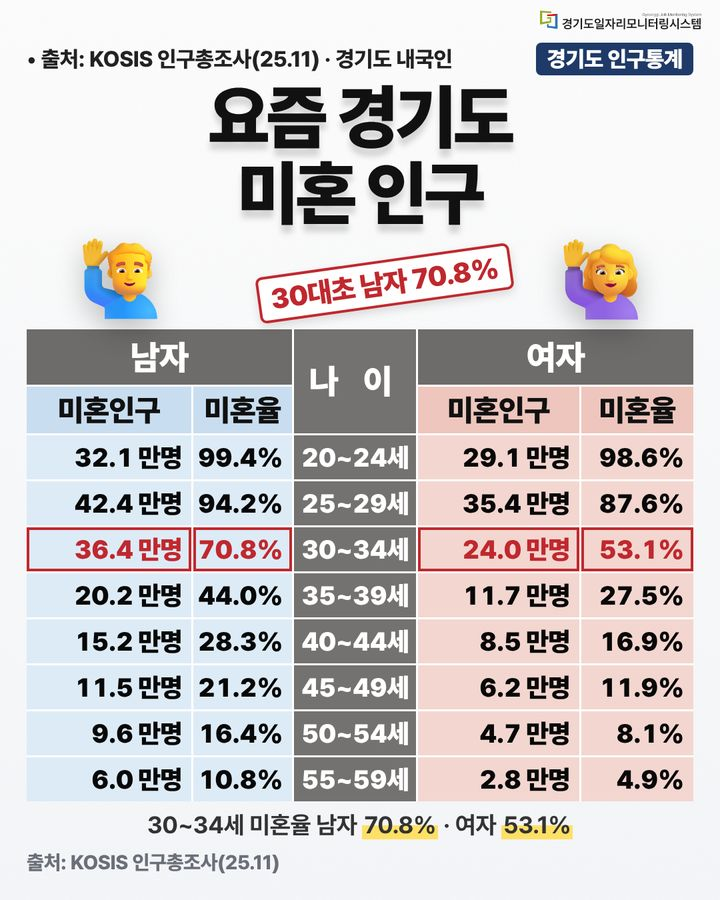
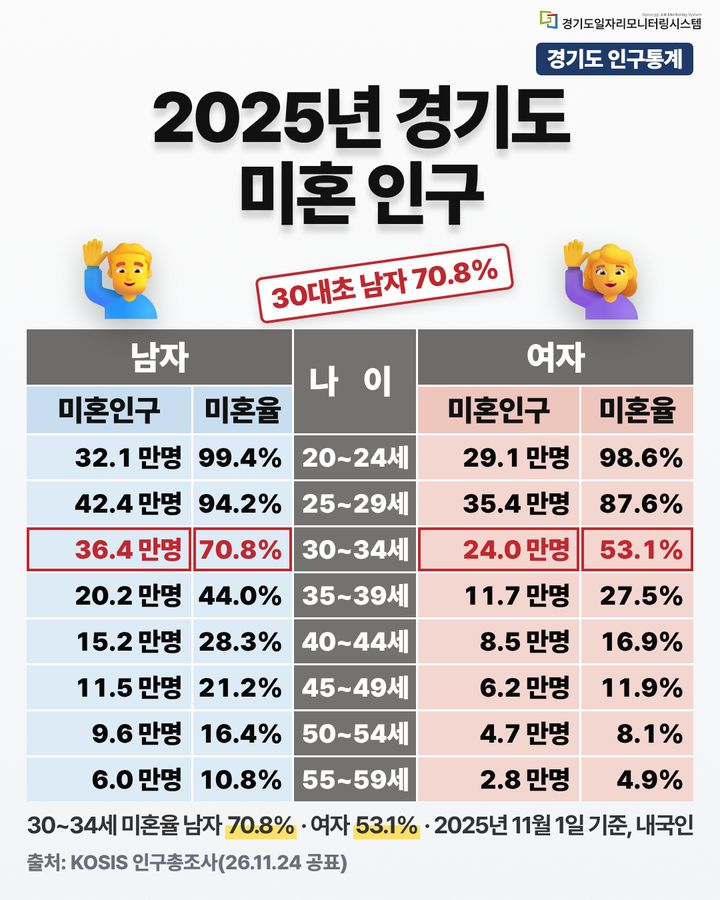
261127 웹페이지 최종본
Claude-Session: https://claude.ai/code/session_015uJhCRwAjtMNyYQ2T3EHaf

Changed region(s): [[0.0611, 0.0311, 0.7944, 0.1867], [0.0306, 0.9022, 0.9778, 0.9644]]

diff --git a/daily/2026-11-27/index.html b/daily/2026-11-27/index.html
@@ -1,15 +1,15 @@
 <!doctype html><html lang="ko"><head><meta charset="utf-8"><meta name="viewport" content="width=device-width,initial-scale=1"><title>11.27.(금) 데일리 그래픽뉴스 | 경기도일자리모니터링시스템</title>
 <meta property="og:title" content="11.27.(금) 데일리 그래픽뉴스 | 경기도일자리모니터링시스템"><meta property="og:description" content="오늘의 일자리·경제 뉴스·통계 15건, 제목과 출처를 확인하세요"><meta property="og:image" content="https://gjfdata.github.io/daily/2026-11-27/preview.jpg"><meta property="og:url" content="https://gjfdata.github.io/daily/2026-11-27/"><meta property="og:type" content="website"><meta name="description" content="오늘의 일자리·경제 뉴스·통계 15건, 제목과 출처를 확인하세요">
 <link rel="stylesheet" href="https://cdn.jsdelivr.net/gh/orioncactus/pretendard@v1.3.9/dist/web/static/pretendard.css"><link rel="stylesheet" href="../../assets/style.css"></head><body><div class="w"><img class="ci" src="../../assets/ci.png" alt="경기도일자리모니터링시스템"><h1>11.27.(금) 데일리 그래픽뉴스</h1><p class="sub">오늘의 일자리·경제 뉴스·통계 15건</p><p class="views" data-views="TOTAL" hidden><span data-range="day" data-label="일간 조회수"></span> · <span data-range="month" data-label="월간 조회수"></span> <span class="vnote">(*최대 4시간 전 기준)</span></p>
-<div class="grid"><button data-card="cards/01.jpg" aria-label="01번 카드 크게 보기"><img src="cards/01.jpg" alt="01번 카드: 2027년 달라지는 제도: 확정 4건·정부안 3건" loading="lazy"><span>01</span></button><button data-card="cards/02.jpg" aria-label="02번 카드 크게 보기"><img src="cards/02.jpg" alt="02번 카드: 경기도 미혼 인구, 30~34세 남자 70.8%" loading="lazy"><span>02</span></button><button data-card="cards/03.jpg" aria-label="03번 카드 크게 보기"><img src="cards/03.jpg" alt="03번 카드: 국가자격시험 앞치마 착용·휴대전화 수거" loading="lazy"><span>03</span></button><button data-card="cards/04.jpg" aria-label="04번 카드 크게 보기"><img src="cards/04.jpg" alt="04번 카드: 3분기 실질소득 2.1% 감소, 10분기 만에" loading="lazy"><span>04</span></button><button data-card="cards/05.jpg" aria-label="05번 카드 크게 보기"><img src="cards/05.jpg" alt="05번 카드: 경기 3분기 합계출산율 0.95명" loading="lazy"><span>05</span></button><button data-card="cards/06.jpg" aria-label="06번 카드 크게 보기"><img src="cards/06.jpg" alt="06번 카드: 한국 기준금리 3.25%로 인상, 미국과 0.75%p 차" loading="lazy"><span>06</span></button><button data-card="cards/07.jpg" aria-label="07번 카드 크게 보기"><img src="cards/07.jpg" alt="07번 카드: 한은, 내년 성장률 4.1%로 상향" loading="lazy"><span>07</span></button><button data-card="cards/08.jpg" aria-label="08번 카드 크게 보기"><img src="cards/08.jpg" alt="08번 카드: 코스피 0.29% 상승 마감, 4,711.21" loading="lazy"><span>08</span></button><button data-card="cards/09.jpg" aria-label="09번 카드 크게 보기"><img src="cards/09.jpg" alt="09번 카드: 주택 종부세 72.6만명, 서울이 63.2%" loading="lazy"><span>09</span></button><button data-card="cards/10.jpg" aria-label="10번 카드 크게 보기"><img src="cards/10.jpg" alt="10번 카드: 경기 재초환 부담금 15곳 8,965억원" loading="lazy"><span>10</span></button><button data-card="cards/11.jpg" aria-label="11번 카드 크게 보기"><img src="cards/11.jpg" alt="11번 카드: 신현송 “반도체 영업익 700조원 육박”" loading="lazy"><span>11</span></button><button data-card="cards/12.jpg" aria-label="12번 카드 크게 보기"><img src="cards/12.jpg" alt="12번 카드: 이재용, 머스크 장기계약 제안에 “뭘 더 해줄 수 있나”" loading="lazy"><span>12</span></button><button data-card="cards/13.jpg" aria-label="13번 카드 크게 보기"><img src="cards/13.jpg" alt="13번 카드: 美 아동 7,200만명에 스페이스X 주식 2주씩" loading="lazy"><span>13</span></button><button data-card="cards/14.jpg" aria-label="14번 카드 크게 보기"><img src="cards/14.jpg" alt="14번 카드: 철도노조 안전운행 투쟁 첫날, 광역전철 235대 지연" loading="lazy"><span>14</span></button><button data-card="cards/15.jpg" aria-label="15번 카드 크게 보기"><img src="cards/15.jpg" alt="15번 카드: 최태원, 재산분할금 9,440억 “7일 내 지급” 제안" loading="lazy"><span>15</span></button></div><p class="hint">카드를 누르면 한 장씩 크게 볼 수 있습니다.</p><ol>
-<li><span class="n"><button data-card="cards/01.jpg" aria-label="01번 카드 크게 보기">01</button></span><div><b>2027년 달라지는 제도: 확정 4건·정부안 3건</b><span class="s">고용노동부 2027년 최저임금 고시(26.8.5)<br>· <a href="https://www.moel.go.kr/news/enews/report/enewsView.do?news_seq=19744" target="_blank" rel="noopener">최저임금(고용노동부)</a><br>· <a href="https://www.korea.kr/multi/visualNewsView.do?newsId=148969661" target="_blank" rel="noopener">근로장려금(국세청·정책브리핑)</a><br>· <a href="https://www.korea.kr/news/policyNewsView.do?newsId=148969870" target="_blank" rel="noopener">세제개편안(혼인·월세, 정책브리핑)</a><br>· <a href="https://www.mafra.go.kr/bbs/home/792/579420/artclView.do" target="_blank" rel="noopener">개식용종식(농림축산식품부)</a></span></div></li>
-<li><span class="n"><button data-card="cards/02.jpg" aria-label="02번 카드 크게 보기">02</button></span><div><b>경기도 미혼 인구, 30~34세 남자 70.8%</b><span class="s">KOSIS 인구총조사(25.11)<br>· <a href="https://kosis.kr/statHtml/statHtml.do?orgId=101&amp;tblId=DT_1PM2503" target="_blank" rel="noopener">KOSIS 성별·연령별·혼인상태별 인구(시군구)</a></span></div></li>
+<div class="grid"><button data-card="cards/01.jpg" aria-label="01번 카드 크게 보기"><img src="cards/01.jpg" alt="01번 카드: 2027년 달라지는 제도: 확정 4건·정부안 3건" loading="lazy"><span>01</span></button><button data-card="cards/02.jpg" aria-label="02번 카드 크게 보기"><img src="cards/02.jpg" alt="02번 카드: 2025년 경기도 미혼 인구, 30~34세 남자 70.8%" loading="lazy"><span>02</span></button><button data-card="cards/03.jpg" aria-label="03번 카드 크게 보기"><img src="cards/03.jpg" alt="03번 카드: 국가자격시험 앞치마 착용·휴대전화 수거" loading="lazy"><span>03</span></button><button data-card="cards/04.jpg" aria-label="04번 카드 크게 보기"><img src="cards/04.jpg" alt="04번 카드: 3분기 실질소득 2.1% 감소, 10분기 만에" loading="lazy"><span>04</span></button><button data-card="cards/05.jpg" aria-label="05번 카드 크게 보기"><img src="cards/05.jpg" alt="05번 카드: 경기 3분기 합계출산율 0.95명" loading="lazy"><span>05</span></button><button data-card="cards/06.jpg" aria-label="06번 카드 크게 보기"><img src="cards/06.jpg" alt="06번 카드: 한국 기준금리 3.25%로 인상, 미국과 0.75%p 차" loading="lazy"><span>06</span></button><button data-card="cards/07.jpg" aria-label="07번 카드 크게 보기"><img src="cards/07.jpg" alt="07번 카드: 한은, 내년 성장률 4.1%로 상향" loading="lazy"><span>07</span></button><button data-card="cards/08.jpg" aria-label="08번 카드 크게 보기"><img src="cards/08.jpg" alt="08번 카드: 국제유가·금 동반 상승, 금 1.17%↑" loading="lazy"><span>08</span></button><button data-card="cards/09.jpg" aria-label="09번 카드 크게 보기"><img src="cards/09.jpg" alt="09번 카드: 주택 종부세 72.6만명, 서울이 63.2%" loading="lazy"><span>09</span></button><button data-card="cards/10.jpg" aria-label="10번 카드 크게 보기"><img src="cards/10.jpg" alt="10번 카드: 경기 재초환 부담금 15곳 8,965억원" loading="lazy"><span>10</span></button><button data-card="cards/11.jpg" aria-label="11번 카드 크게 보기"><img src="cards/11.jpg" alt="11번 카드: 신현송 “반도체 영업익 700조원 육박”" loading="lazy"><span>11</span></button><button data-card="cards/12.jpg" aria-label="12번 카드 크게 보기"><img src="cards/12.jpg" alt="12번 카드: 이재용, 머스크 장기계약 제안에 “뭘 더 해줄 수 있나”" loading="lazy"><span>12</span></button><button data-card="cards/13.jpg" aria-label="13번 카드 크게 보기"><img src="cards/13.jpg" alt="13번 카드: 美 아동 7,200만명에 스페이스X 주식 2주씩" loading="lazy"><span>13</span></button><button data-card="cards/14.jpg" aria-label="14번 카드 크게 보기"><img src="cards/14.jpg" alt="14번 카드: 철도노조 안전운행 투쟁 첫날, 광역전철 235대 지연" loading="lazy"><span>14</span></button><button data-card="cards/15.jpg" aria-label="15번 카드 크게 보기"><img src="cards/15.jpg" alt="15번 카드: 최태원, 재산분할금 9,440억 “7일 내 지급” 제안" loading="lazy"><span>15</span></button></div><p class="hint">카드를 누르면 한 장씩 크게 볼 수 있습니다.</p><ol>
+<li><span class="n"><button data-card="cards/01.jpg" aria-label="01번 카드 크게 보기">01</button></span><div><b>2027년 달라지는 제도: 확정 4건·정부안 3건</b><span class="s">고용노동부 2027년 최저임금 고시(26.8.5) 외 5건<br>· <a href="https://www.moel.go.kr/news/enews/report/enewsView.do?news_seq=19744" target="_blank" rel="noopener">최저임금(고용노동부)</a><br>· <a href="https://www.mohw.go.kr/board.es?mid=a10503000000&amp;bid=0027&amp;list_no=1485039&amp;act=view" target="_blank" rel="noopener">국민연금 보험료율(보건복지부)</a><br>· <a href="https://www.mt.co.kr/economy/2026/05/07/2026050719231093630" target="_blank" rel="noopener">연차 시간 단위 사용(머니투데이)</a><br>· <a href="https://www.korea.kr/multi/visualNewsView.do?newsId=148969661" target="_blank" rel="noopener">근로장려금(국세청·정책브리핑)</a><br>· <a href="https://www.korea.kr/news/policyNewsView.do?newsId=148969870" target="_blank" rel="noopener">세제개편안(혼인·월세, 정책브리핑)</a><br>· <a href="https://www.mafra.go.kr/bbs/home/792/579420/artclView.do" target="_blank" rel="noopener">개식용종식(농림축산식품부)</a></span></div></li>
+<li><span class="n"><button data-card="cards/02.jpg" aria-label="02번 카드 크게 보기">02</button></span><div><b>2025년 경기도 미혼 인구, 30~34세 남자 70.8%</b><span class="s">KOSIS 인구총조사(26.11.24 공표)<br>· <a href="https://kosis.kr/statHtml/statHtml.do?orgId=101&amp;tblId=DT_1PM2503" target="_blank" rel="noopener">KOSIS 성별·연령별·혼인상태별 인구(시군구)</a></span></div></li>
 <li><span class="n"><button data-card="cards/03.jpg" aria-label="03번 카드 크게 보기">03</button></span><div><b>국가자격시험 앞치마 착용·휴대전화 수거</b><span class="s"><a href="https://www.chosun.com/national/labor/2026/11/23/IDR34I6THREKVMUKTSMJR2HLOQ/" target="_blank" rel="noopener">조선일보 「앞치마로 AI 막는 국가시험」(26.11.23)</a></span></div></li>
 <li><span class="n"><button data-card="cards/04.jpg" aria-label="04번 카드 크게 보기">04</button></span><div><b>3분기 실질소득 2.1% 감소, 10분기 만에</b><span class="s"><a href="https://www.yna.co.kr/view/AKR20261126073500002" target="_blank" rel="noopener">연합뉴스 「실질소득 10분기만에 감소 전환」(26.11.26)</a></span></div></li>
 <li><span class="n"><button data-card="cards/05.jpg" aria-label="05번 카드 크게 보기">05</button></span><div><b>경기 3분기 합계출산율 0.95명</b><span class="s">KOSIS 인구동향조사(26.09)<br>· <a href="https://kosis.kr/statHtml/statHtml.do?orgId=101&amp;tblId=DT_1B8000G" target="_blank" rel="noopener">KOSIS 월·분기·연간 인구동향</a></span></div></li>
 <li><span class="n"><button data-card="cards/06.jpg" aria-label="06번 카드 크게 보기">06</button></span><div><b>한국 기준금리 3.25%로 인상, 미국과 0.75%p 차</b><span class="s">한국은행 기준금리(26.11.26)<br>· <a href="https://ecos.bok.or.kr/" target="_blank" rel="noopener">한국은행 ECOS 기준금리</a><br>· <a href="https://www.federalreserve.gov/newsevents/pressreleases/monetary20261028a.htm" target="_blank" rel="noopener">미 연준 FOMC 성명(26.10.28)</a><br>· <a href="https://www.federalreserve.gov/monetarypolicy/openmarket.htm" target="_blank" rel="noopener">미 연준 정책금리 변경 이력</a></span></div></li>
 <li><span class="n"><button data-card="cards/07.jpg" aria-label="07번 카드 크게 보기">07</button></span><div><b>한은, 내년 성장률 4.1%로 상향</b><span class="s"><a href="https://www.yna.co.kr/view/AKR20261126059053002" target="_blank" rel="noopener">연합뉴스 「내년 성장률 4.1%로 대폭 상향」(26.11.26)</a></span></div></li>
-<li><span class="n"><button data-card="cards/08.jpg" aria-label="08번 카드 크게 보기">08</button></span><div><b>코스피 0.29% 상승 마감, 4,711.21</b><span class="s"><a href="https://www.ebn.co.kr/news/articleView.html?idxno=1733145" target="_blank" rel="noopener">이비엔 「코스피 4711 마감」(26.11.26)</a></span></div></li>
+<li><span class="n"><button data-card="cards/08.jpg" aria-label="08번 카드 크게 보기">08</button></span><div><b>국제유가·금 동반 상승, 금 1.17%↑</b><span class="s"><a href="https://www.ebn.co.kr/news/articleView.html?idxno=1733145" target="_blank" rel="noopener">이비엔 「코스피 4711 마감」(26.11.26)</a></span></div></li>
 <li><span class="n"><button data-card="cards/09.jpg" aria-label="09번 카드 크게 보기">09</button></span><div><b>주택 종부세 72.6만명, 서울이 63.2%</b><span class="s"><a href="https://www.yna.co.kr/view/AKR20261126145800002" target="_blank" rel="noopener">연합뉴스 「주택 종부세 73만명에 고지」(26.11.26)</a></span></div></li>
 <li><span class="n"><button data-card="cards/10.jpg" aria-label="10번 카드 크게 보기">10</button></span><div><b>경기 재초환 부담금 15곳 8,965억원</b><span class="s"><a href="https://www.mk.co.kr/news/realestate/12218401" target="_blank" rel="noopener">매일경제 「경기 15곳 9천억 부담금 예정」(26.11.25)</a></span></div></li>
 <li><span class="n"><button data-card="cards/11.jpg" aria-label="11번 카드 크게 보기">11</button></span><div><b>신현송 “반도체 영업익 700조원 육박”</b><span class="s"><a href="https://www.yna.co.kr/view/AKR20261126098451002" target="_blank" rel="noopener">연합뉴스 「신현송 &quot;반도체 올해 영업익 700조원&quot;」(26.11.26)</a></span></div></li>
